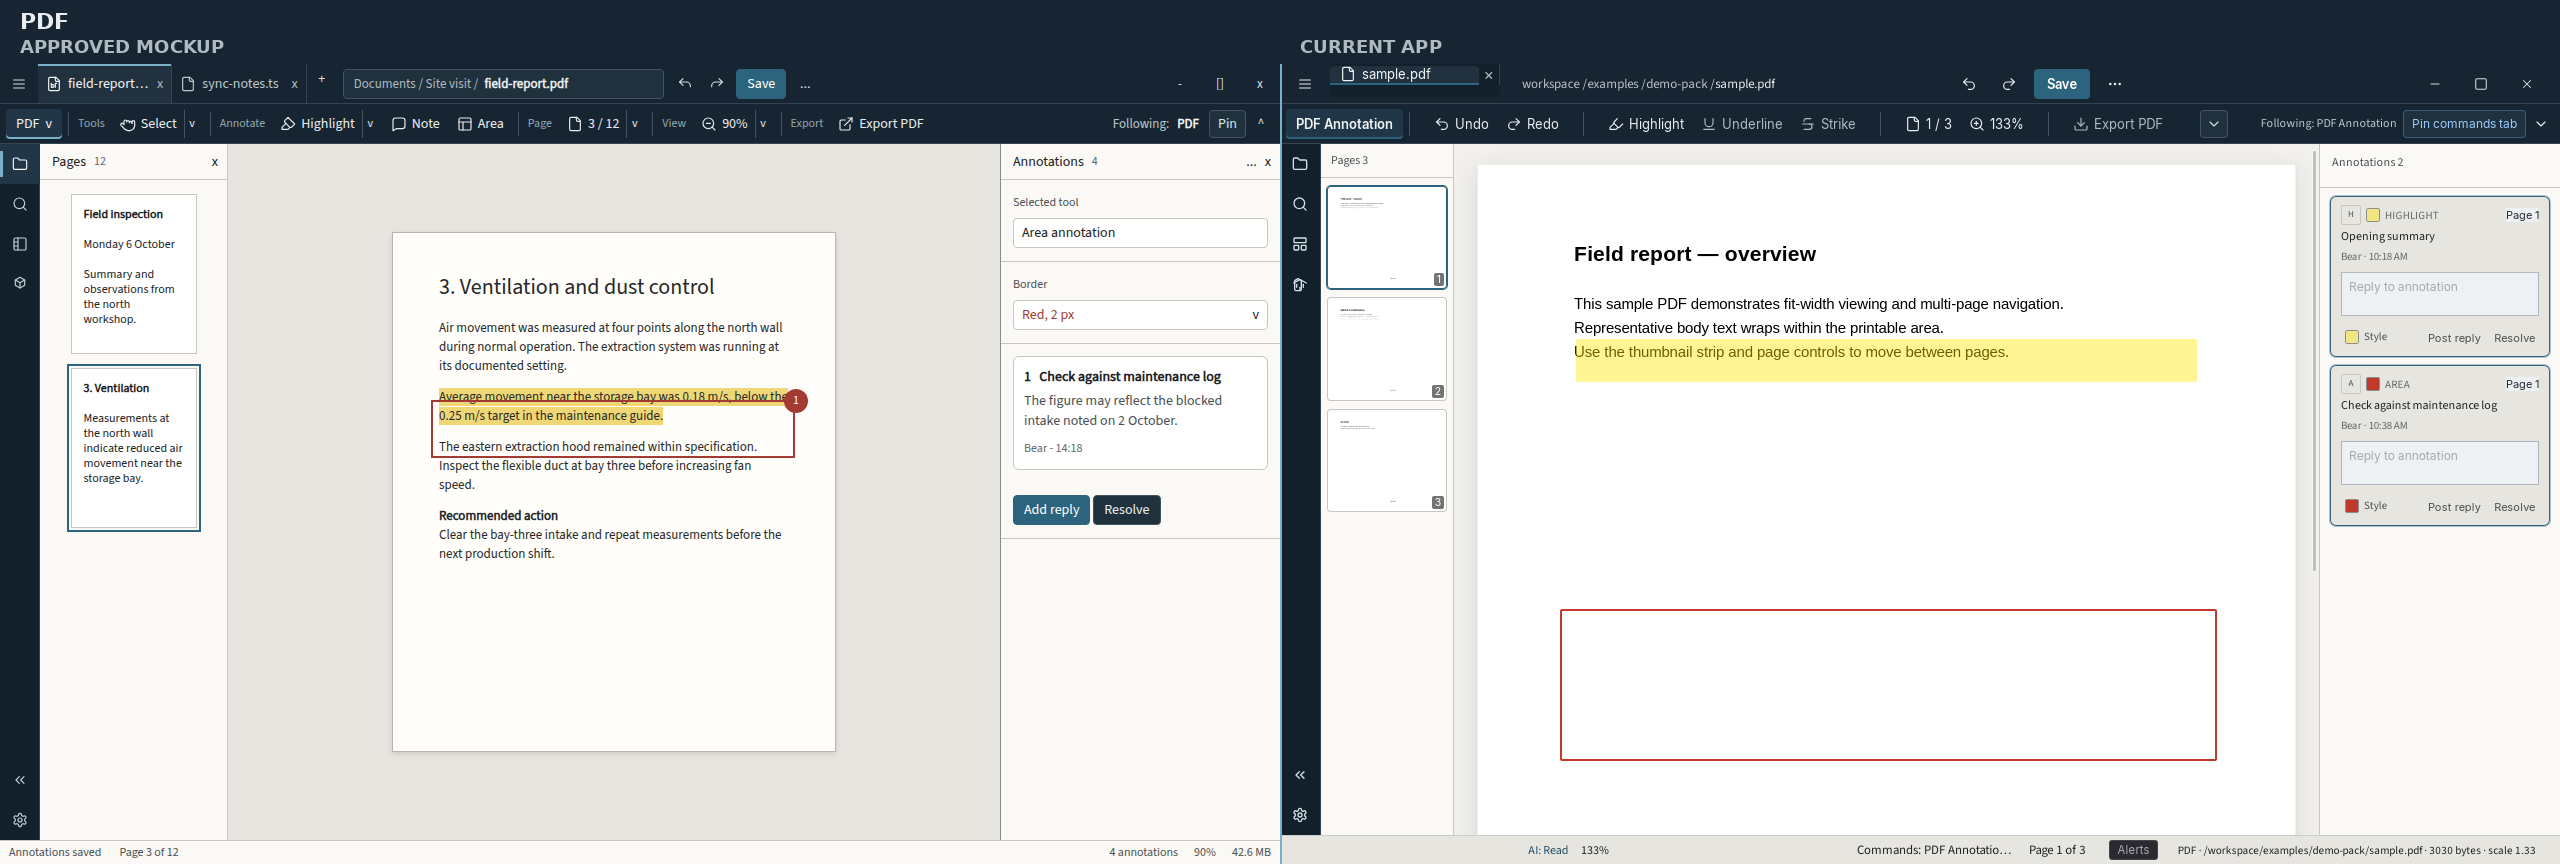
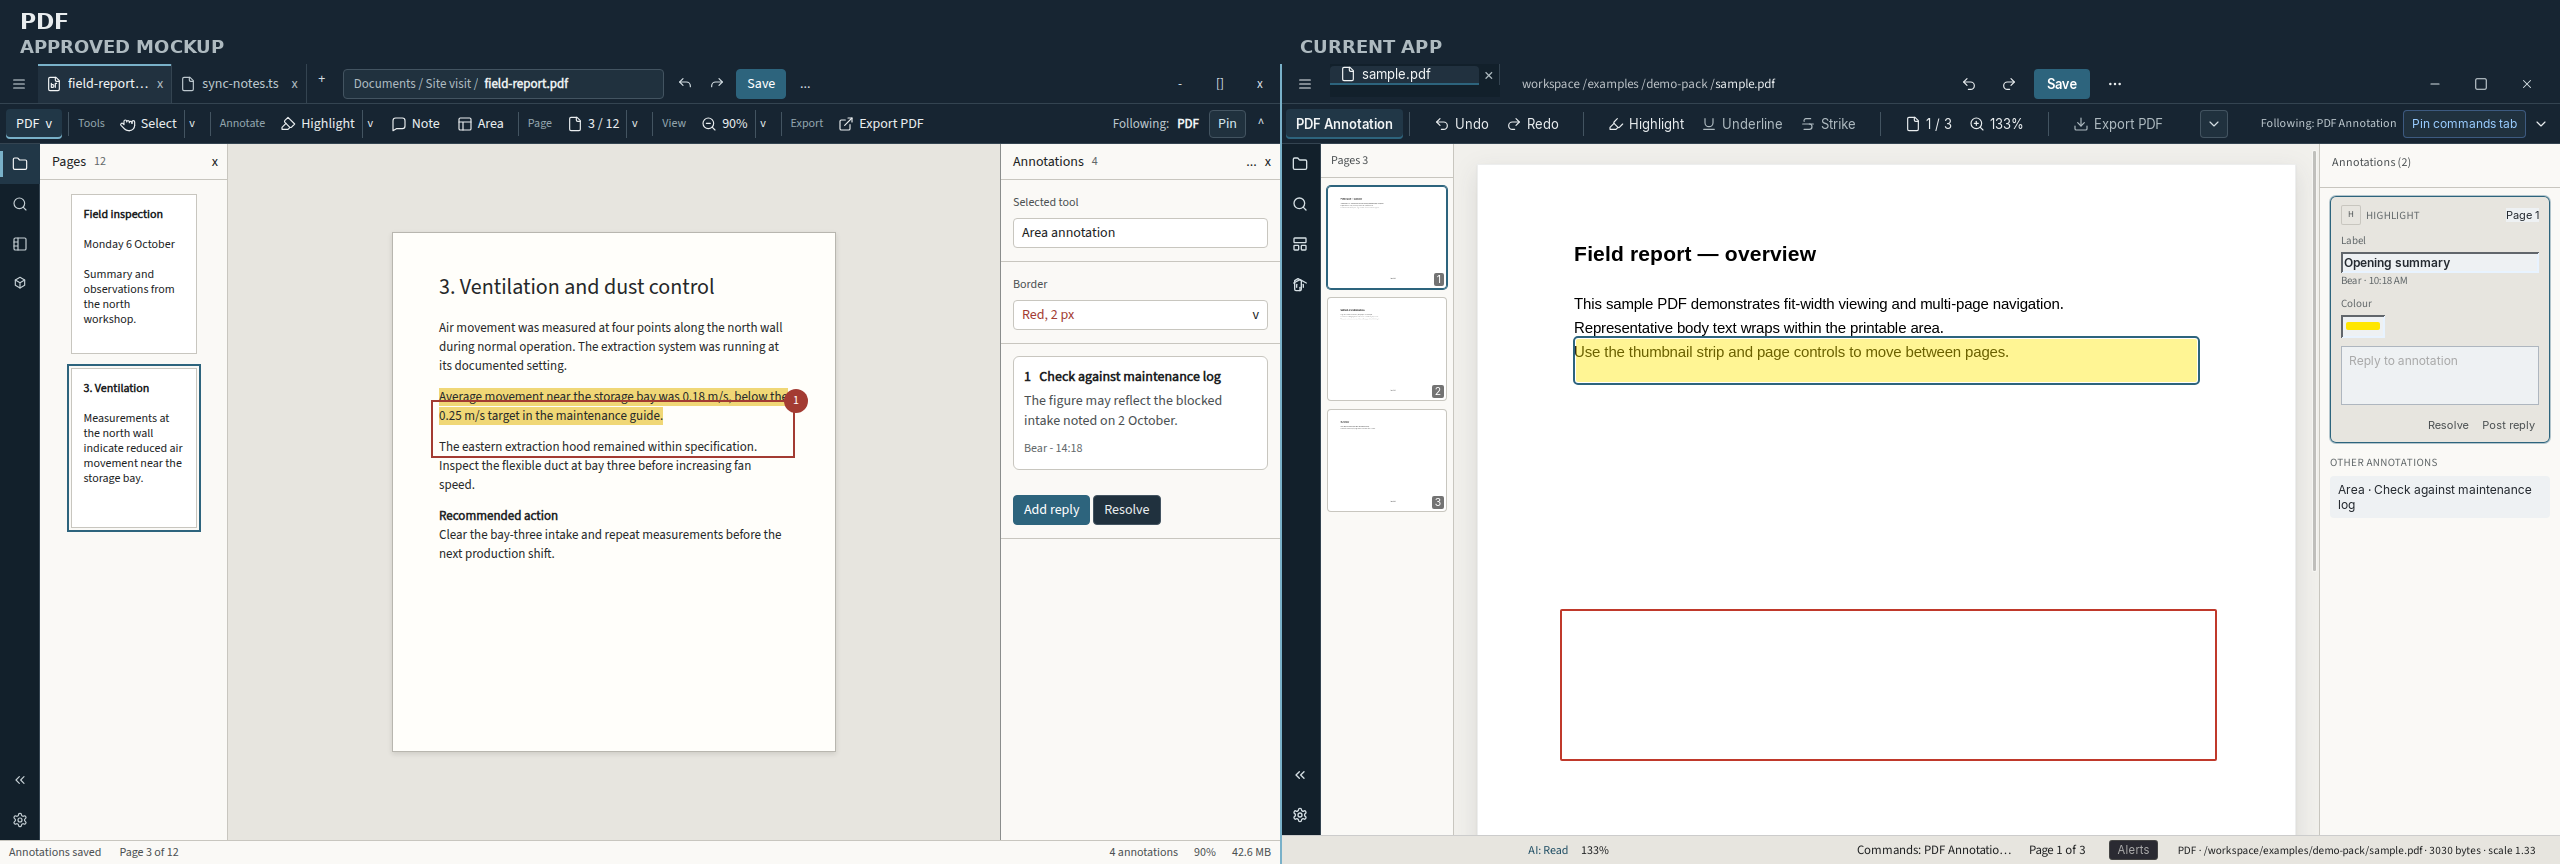
UI-25: Clarify PDF annotation selection
Use the annotations dock as a selected-annotation inspector with a clear
canvas selection outline and quieter secondary rows.

Changed region(s): [[0.9062, 0.25, 1.0, 0.5938]]

diff --git a/crates/unibrowser-desktop/src/documentViewer.ts b/crates/unibrowser-desktop/src/documentViewer.ts
@@ -489,7 +489,8 @@ function pdfAnnotationKindLabel(kind: string | undefined): string {
 function rebuildPdfAnnotationsDock(
   annotDock: HTMLElement,
   highlights: PdfHighlightDto[],
-  currentPage: number,
+  selectedIndex: number,
+  onSelect: (index: number) => void,
   onJump: (page: number) => void,
 ) {
   annotDock.innerHTML = "";
@@ -497,7 +498,7 @@ function rebuildPdfAnnotationsDock(
   head.className = "pdf-annotations-head";
   const annotTitle = document.createElement("h3");
   annotTitle.className = "pdf-annotations-title";
-  annotTitle.textContent = `Annotations ${highlights.length}`;
+  annotTitle.textContent = `Annotations (${highlights.length})`;
   head.appendChild(annotTitle);
   annotDock.appendChild(head);
   const annotBody = document.createElement("div");
@@ -508,90 +509,93 @@ function rebuildPdfAnnotationsDock(
     empty.textContent = "No annotations on this document.";
     annotBody.appendChild(empty);
   } else {
-    const list = document.createElement("ul");
-    list.className = "pdf-annotations-list";
-    highlights.forEach((h, index) => {
-      const li = document.createElement("li");
-      li.className = "pdf-annotation-card";
-      if (h.page === currentPage) {
-        li.classList.add("pdf-annotation-card--current");
-      }
-      const row = document.createElement("div");
-      row.className = "pdf-annotation-card-head";
-      const identity = document.createElement("span");
-      identity.className = "pdf-annotation-identity";
-      const icon = document.createElement("span");
-      icon.className = `pdf-annotation-icon pdf-annotation-icon--${h.kind ?? "highlight"}`;
-      icon.setAttribute("aria-hidden", "true");
-      icon.textContent = h.kind === "note" ? "N" : h.kind === "area" ? "A" : "H";
-      const swatch = document.createElement("span");
-      swatch.className = "pdf-annotation-colour";
-      swatch.style.backgroundColor = h.color;
-      swatch.setAttribute("aria-label", `Annotation colour ${h.color}`);
-      const kind = document.createElement("span");
-      kind.className = "pdf-annotation-kind";
-      kind.textContent = pdfAnnotationKindLabel(h.kind);
-      identity.append(icon, swatch, kind);
-      const pageLink = document.createElement("button");
-      pageLink.type = "button";
-      pageLink.className = "pdf-annotation-page";
-      pageLink.textContent = `Page ${h.page}`;
-      pageLink.onclick = () => onJump(h.page);
-      row.appendChild(identity);
-      row.appendChild(pageLink);
-      const title = document.createElement("p");
-      title.className = "pdf-annotation-label";
-      title.textContent = h.label ?? `Annotation ${index + 1}`;
-      const meta = document.createElement("p");
-      meta.className = "pdf-annotation-meta";
-      const who = h.author ?? "Unknown";
-      const when = formatPdfAnnotationTime(h.created_at_ms);
-      meta.textContent = when ? `${who} · ${when}` : who;
-      const appearance = document.createElement("details");
-      appearance.className = "pdf-annotation-appearance";
-      const appearanceTrigger = document.createElement("summary");
-      appearanceTrigger.setAttribute("aria-label", "Annotation style");
-      const appearanceSwatch = document.createElement("span");
-      appearanceSwatch.className = "pdf-annotation-colour";
-      appearanceSwatch.style.backgroundColor = h.color;
-      appearanceTrigger.append(appearanceSwatch, document.createTextNode("Style"));
-      const popover = document.createElement("div");
-      popover.className = "pdf-annotation-swatch-popover";
-      const colour = document.createElement("input");
-      colour.type = "color";
-      colour.value = h.kind === "area" ? "#c0392b" : "#ffe600";
-      colour.setAttribute("aria-label", "Annotation colour");
-      const thickness = document.createElement("input");
-      thickness.type = "range";
-      thickness.min = "1";
-      thickness.max = "8";
-      thickness.value = h.kind === "area" ? "2" : "1";
-      thickness.setAttribute("aria-label", "Annotation thickness");
-      popover.append(colour, thickness);
-      appearance.append(appearanceTrigger, popover);
-      const reply = document.createElement("textarea");
-      reply.className = "pdf-annotation-reply";
-      reply.rows = 2;
-      reply.placeholder = "Reply to annotation";
-      const actions = document.createElement("div");
-      actions.className = "pdf-annotation-actions";
-      const resolveBtn = document.createElement("button");
-      resolveBtn.type = "button";
-      resolveBtn.className = "pdf-annotation-resolve";
-      resolveBtn.textContent = "Resolve";
-      const replyBtn = document.createElement("button");
-      replyBtn.type = "button";
-      replyBtn.className = "pdf-annotation-reply-btn";
-      replyBtn.textContent = "Post reply";
-      actions.append(appearance, replyBtn, resolveBtn);
-      li.appendChild(row);
-      li.appendChild(title);
-      li.appendChild(meta);
-      li.appendChild(reply);
-      li.appendChild(actions);
-      list.appendChild(li);
-    });
-    annotBody.appendChild(list);
+    const safeIndex =
+      selectedIndex >= 0 && selectedIndex < highlights.length ? selectedIndex : 0;
+    const selected = highlights[safeIndex];
+    const inspector = document.createElement("section");
+    inspector.className = "pdf-annotation-inspector pdf-annotation-card pdf-annotation-card--selected";
+    inspector.setAttribute("aria-label", "Selected annotation");
+    const toolRow = document.createElement("div");
+    toolRow.className = "pdf-annotation-card-head";
+    const identity = document.createElement("span");
+    identity.className = "pdf-annotation-identity";
+    const icon = document.createElement("span");
+    icon.className = `pdf-annotation-icon pdf-annotation-icon--${selected.kind ?? "highlight"}`;
+    icon.setAttribute("aria-hidden", "true");
+    icon.textContent = selected.kind === "note" ? "N" : selected.kind === "area" ? "A" : "H";
+    const kind = document.createElement("span");
+    kind.className = "pdf-annotation-kind";
+    kind.textContent = pdfAnnotationKindLabel(selected.kind);
+    identity.append(icon, kind);
+    const pageLink = document.createElement("button");
+    pageLink.type = "button";
+    pageLink.className = "pdf-annotation-page";
+    pageLink.textContent = `Page ${selected.page}`;
+    pageLink.onclick = () => onJump(selected.page);
+    toolRow.append(identity, pageLink);
+    const title = document.createElement("label");
+    title.className = "pdf-annotation-field";
+    const titleCaption = document.createElement("span");
+    titleCaption.textContent = "Label";
+    const titleInput = document.createElement("input");
+    titleInput.type = "text";
+    titleInput.value = selected.label ?? `Annotation ${safeIndex + 1}`;
+    titleInput.setAttribute("aria-label", "Annotation label");
+    title.append(titleCaption, titleInput);
+    const meta = document.createElement("p");
+    meta.className = "pdf-annotation-meta";
+    const who = selected.author ?? "Unknown";
+    const when = formatPdfAnnotationTime(selected.created_at_ms);
+    meta.textContent = when ? `${who} · ${when}` : who;
+    const colourField = document.createElement("label");
+    colourField.className = "pdf-annotation-field";
+    const colourCaption = document.createElement("span");
+    colourCaption.textContent = "Colour";
+    const colour = document.createElement("input");
+    colour.type = "color";
+    colour.value = selected.kind === "area" ? "#c0392b" : "#ffe600";
+    colour.setAttribute("aria-label", "Annotation colour");
+    colourField.append(colourCaption, colour);
+    const reply = document.createElement("textarea");
+    reply.className = "pdf-annotation-reply";
+    reply.rows = 3;
+    reply.placeholder = "Reply to annotation";
+    const actions = document.createElement("div");
+    actions.className = "pdf-annotation-actions";
+    const resolveBtn = document.createElement("button");
+    resolveBtn.type = "button";
+    resolveBtn.className = "pdf-annotation-resolve";
+    resolveBtn.textContent = "Resolve";
+    const replyBtn = document.createElement("button");
+    replyBtn.type = "button";
+    replyBtn.className = "pdf-annotation-reply-btn";
+    replyBtn.textContent = "Post reply";
+    actions.append(resolveBtn, replyBtn);
+    inspector.append(toolRow, title, meta, colourField, reply, actions);
+    annotBody.appendChild(inspector);
+
+    if (highlights.length > 1) {
+      const indexTitle = document.createElement("h4");
+      indexTitle.className = "pdf-annotations-index-title";
+      indexTitle.textContent = "Other annotations";
+      annotBody.appendChild(indexTitle);
+      const list = document.createElement("ul");
+      list.className = "pdf-annotations-index";
+      highlights.forEach((h, index) => {
+        if (index === safeIndex) {
+          return;
+        }
+        const li = document.createElement("li");
+        const pick = document.createElement("button");
+        pick.type = "button";
+        pick.className = "pdf-annotation-index-row";
+        pick.textContent = `${pdfAnnotationKindLabel(h.kind)} · ${h.label ?? `Annotation ${index + 1}`}`;
+        pick.onclick = () => onSelect(index);
+        li.appendChild(pick);
+        list.appendChild(li);
+      });
+      annotBody.appendChild(list);
+    }
   }
   annotDock.appendChild(annotBody);
 }
@@ -626,6 +630,7 @@ async function renderPdf(
   } catch {
     highlights = [];
   }
+  let selectedHighlightIndex = 0;
 
   const workspace = document.createElement("div");
   workspace.className = "pdf-workspace";
@@ -653,21 +658,36 @@ async function renderPdf(
   workspace.appendChild(annotDock);
 
   const syncAnnotationDock = () => {
-    rebuildPdfAnnotationsDock(annotDock, highlights, currentPage, (p) => {
-      void goToPage(p);
-    });
+    rebuildPdfAnnotationsDock(
+      annotDock,
+      highlights,
+      selectedHighlightIndex,
+      (index) => {
+        selectedHighlightIndex = index;
+        void drawPage(currentPage);
+        syncAnnotationDock();
+      },
+      (p) => {
+        void goToPage(p);
+      },
+    );
     reportViewerPdfPage(currentPage, doc.numPages, highlights.length);
   };
 
   const paintHighlights = (pageNum: number, host: HTMLElement, width: number, height: number) => {
     host.querySelectorAll(".pdf-highlight-rect").forEach((el) => el.remove());
-    for (const h of highlights) {
+    highlights.forEach((h, index) => {
       if (h.page !== pageNum) {
-        continue;
+        return;
       }
       const box = document.createElement("div");
       const isArea = h.kind === "area";
       box.className = isArea ? "pdf-highlight-rect pdf-area-rect" : "pdf-highlight-rect";
+      if (index === selectedHighlightIndex) {
+        box.classList.add("pdf-highlight-rect--selected");
+        box.setAttribute("aria-current", "true");
+      }
+      box.tabIndex = 0;
       const cssRect = normalisedPdfRectToCss(h, width, height);
       box.style.left = `${cssRect.left}px`;
       box.style.top = `${cssRect.top}px`;
@@ -678,8 +698,13 @@ async function renderPdf(
       } else {
         box.style.background = h.color;
       }
+      box.onclick = () => {
+        selectedHighlightIndex = index;
+        syncAnnotationDock();
+        paintHighlights(pageNum, host, width, height);
+      };
       host.appendChild(box);
-    }
+    });
   };
 
   const thumbsPanel = document.createElement("aside");

diff --git a/crates/unibrowser-desktop/src/styles.css b/crates/unibrowser-desktop/src/styles.css
@@ -3085,9 +3085,64 @@ body.content-fullscreen::after {
   background: var(--ub-well, #fff);
 }
 
-.pdf-annotation-card--current {
+.pdf-annotation-card--selected {
   border-color: var(--ub-accent, #3d7ea6);
   box-shadow: 0 0 0 1px color-mix(in srgb, var(--ub-accent, #3d7ea6) 35%, transparent);
+}
+
+.pdf-annotation-inspector .pdf-annotation-field {
+  display: flex;
+  flex-direction: column;
+  gap: 4px;
+  margin: 8px 0 0;
+  font-size: 11px;
+  color: var(--ub-text-3, #6a7074);
+}
+
+.pdf-annotation-inspector .pdf-annotation-field input {
+  font-size: 12px;
+  font-weight: 600;
+  color: var(--ub-text-1, #252a30);
+}
+
+.pdf-annotations-index-title {
+  margin: 12px 0 6px;
+  font-size: 11px;
+  font-weight: 600;
+  text-transform: uppercase;
+  letter-spacing: 0.04em;
+  color: var(--ub-text-3, #6a7074);
+}
+
+.pdf-annotations-index {
+  margin: 0;
+  padding: 0;
+  list-style: none;
+  display: flex;
+  flex-direction: column;
+  gap: 2px;
+}
+
+.pdf-annotation-index-row {
+  width: 100%;
+  text-align: left;
+  padding: 6px 8px;
+  border: 0;
+  border-radius: 4px;
+  background: transparent;
+  color: var(--ub-text-2, #4b5052);
+  font-size: 12px;
+  cursor: pointer;
+}
+
+.pdf-annotation-index-row:hover,
+.pdf-annotation-index-row:focus-visible {
+  background: rgb(31 35 38 / 6%);
+}
+
+.pdf-highlight-rect--selected {
+  outline: 2px solid var(--ub-accent, #3d7ea6);
+  outline-offset: 1px;
 }
 
 .pdf-annotation-card-head {

diff --git a/docs/design/ui-implementation-plan.md b/docs/design/ui-implementation-plan.md
@@ -808,6 +808,9 @@ Fail rule:
 
 ### UI-25: Clarify PDF annotation selection
 
+Status: done 2026-10-07. Right dock shows one selected-annotation inspector with
+editable fields; canvas selection outline; other annotations listed quietly.
+
 Work:
 
 - Make one annotation visibly selected and use the right dock as its inspector.
